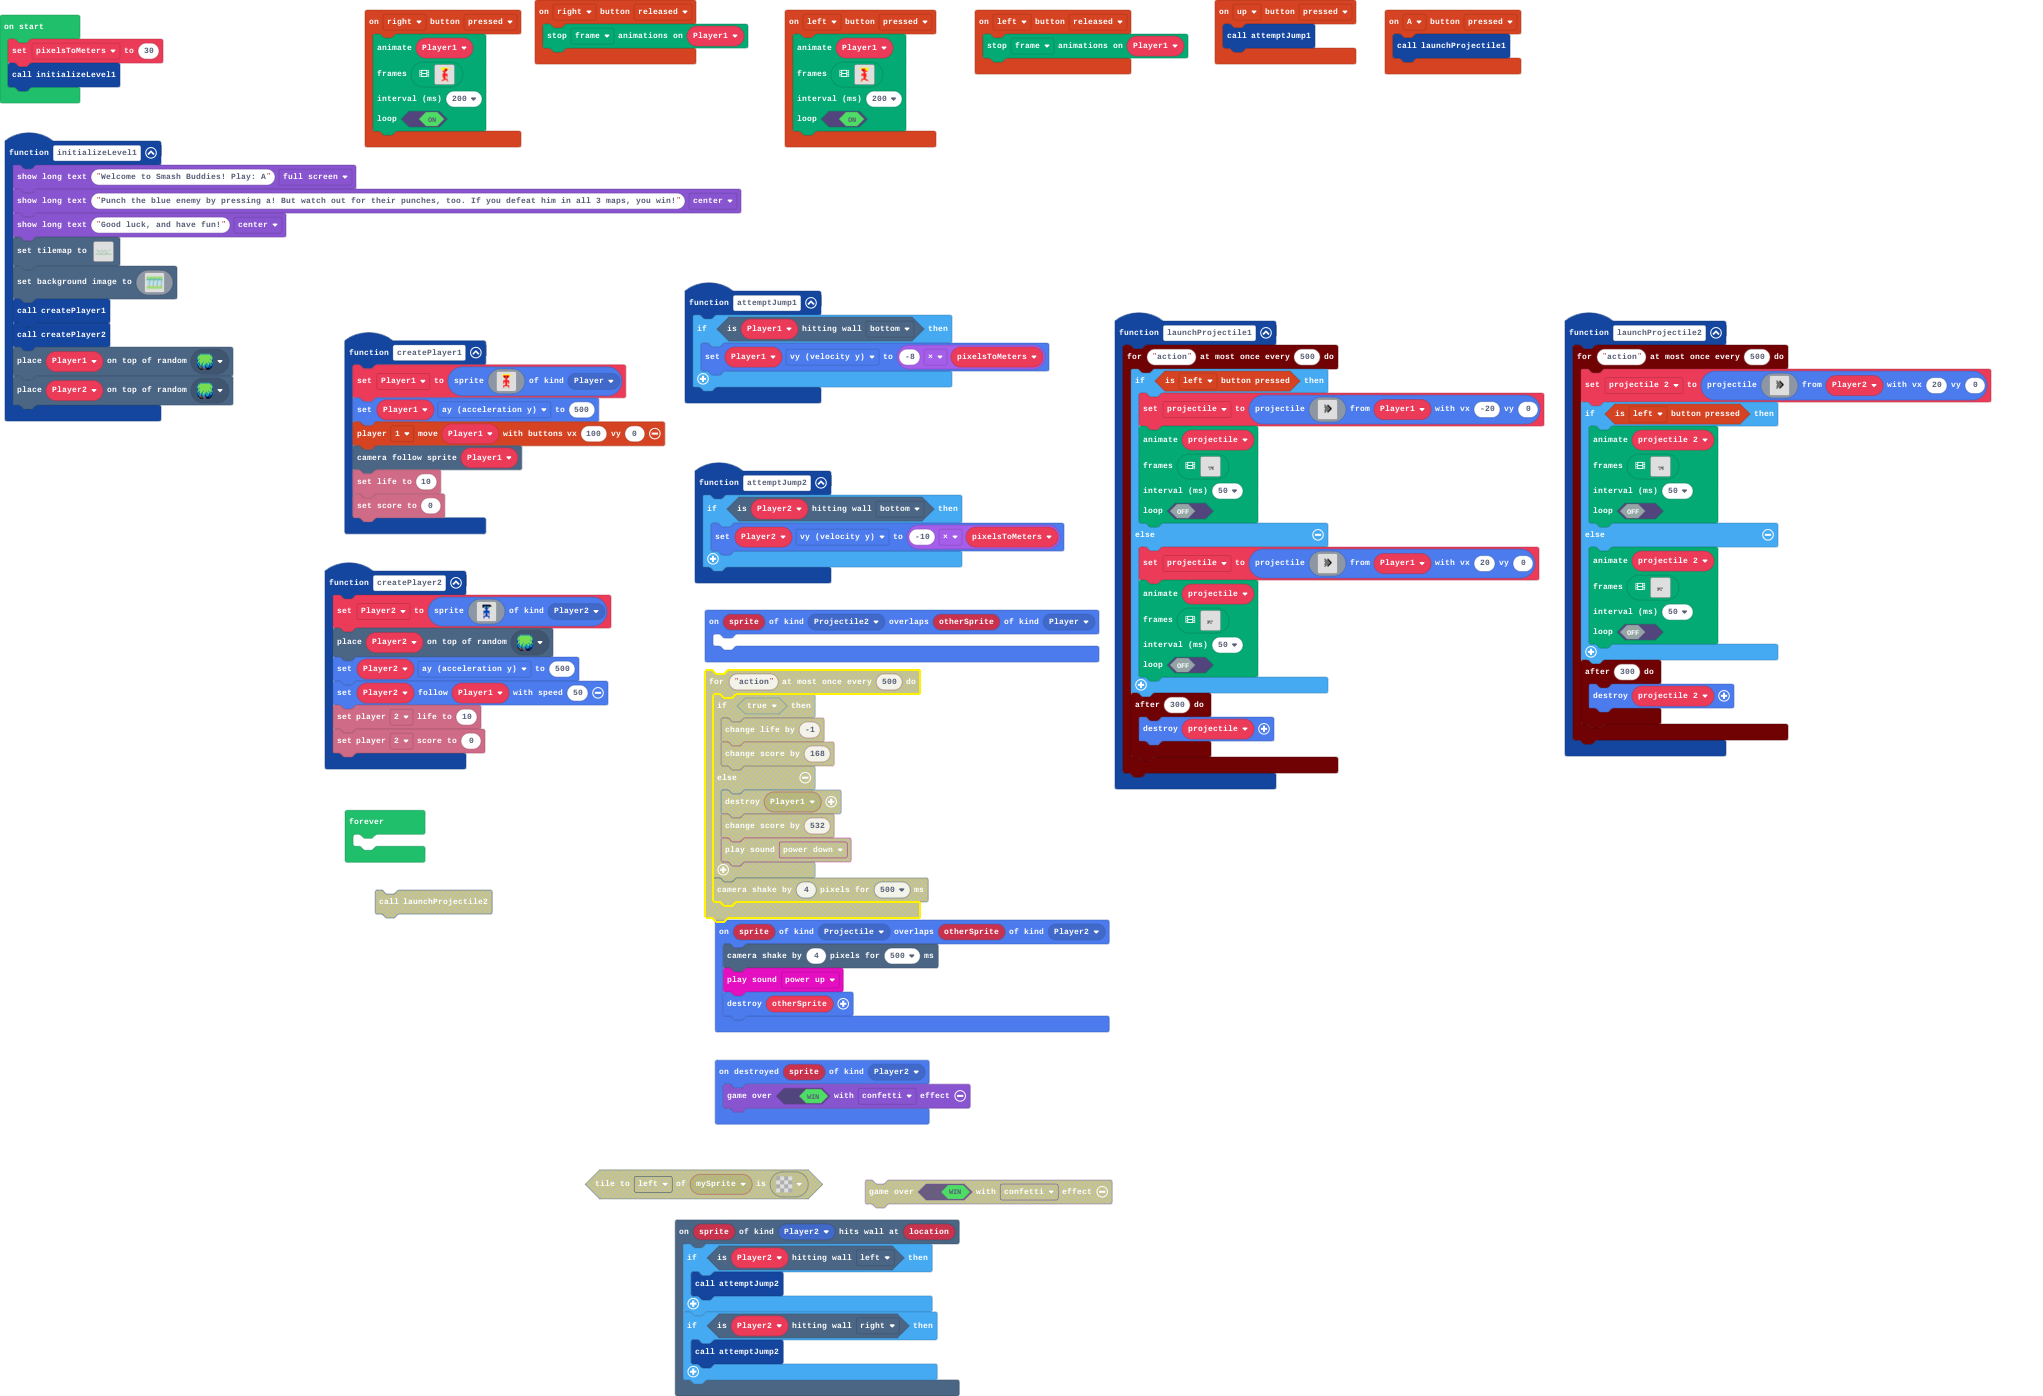
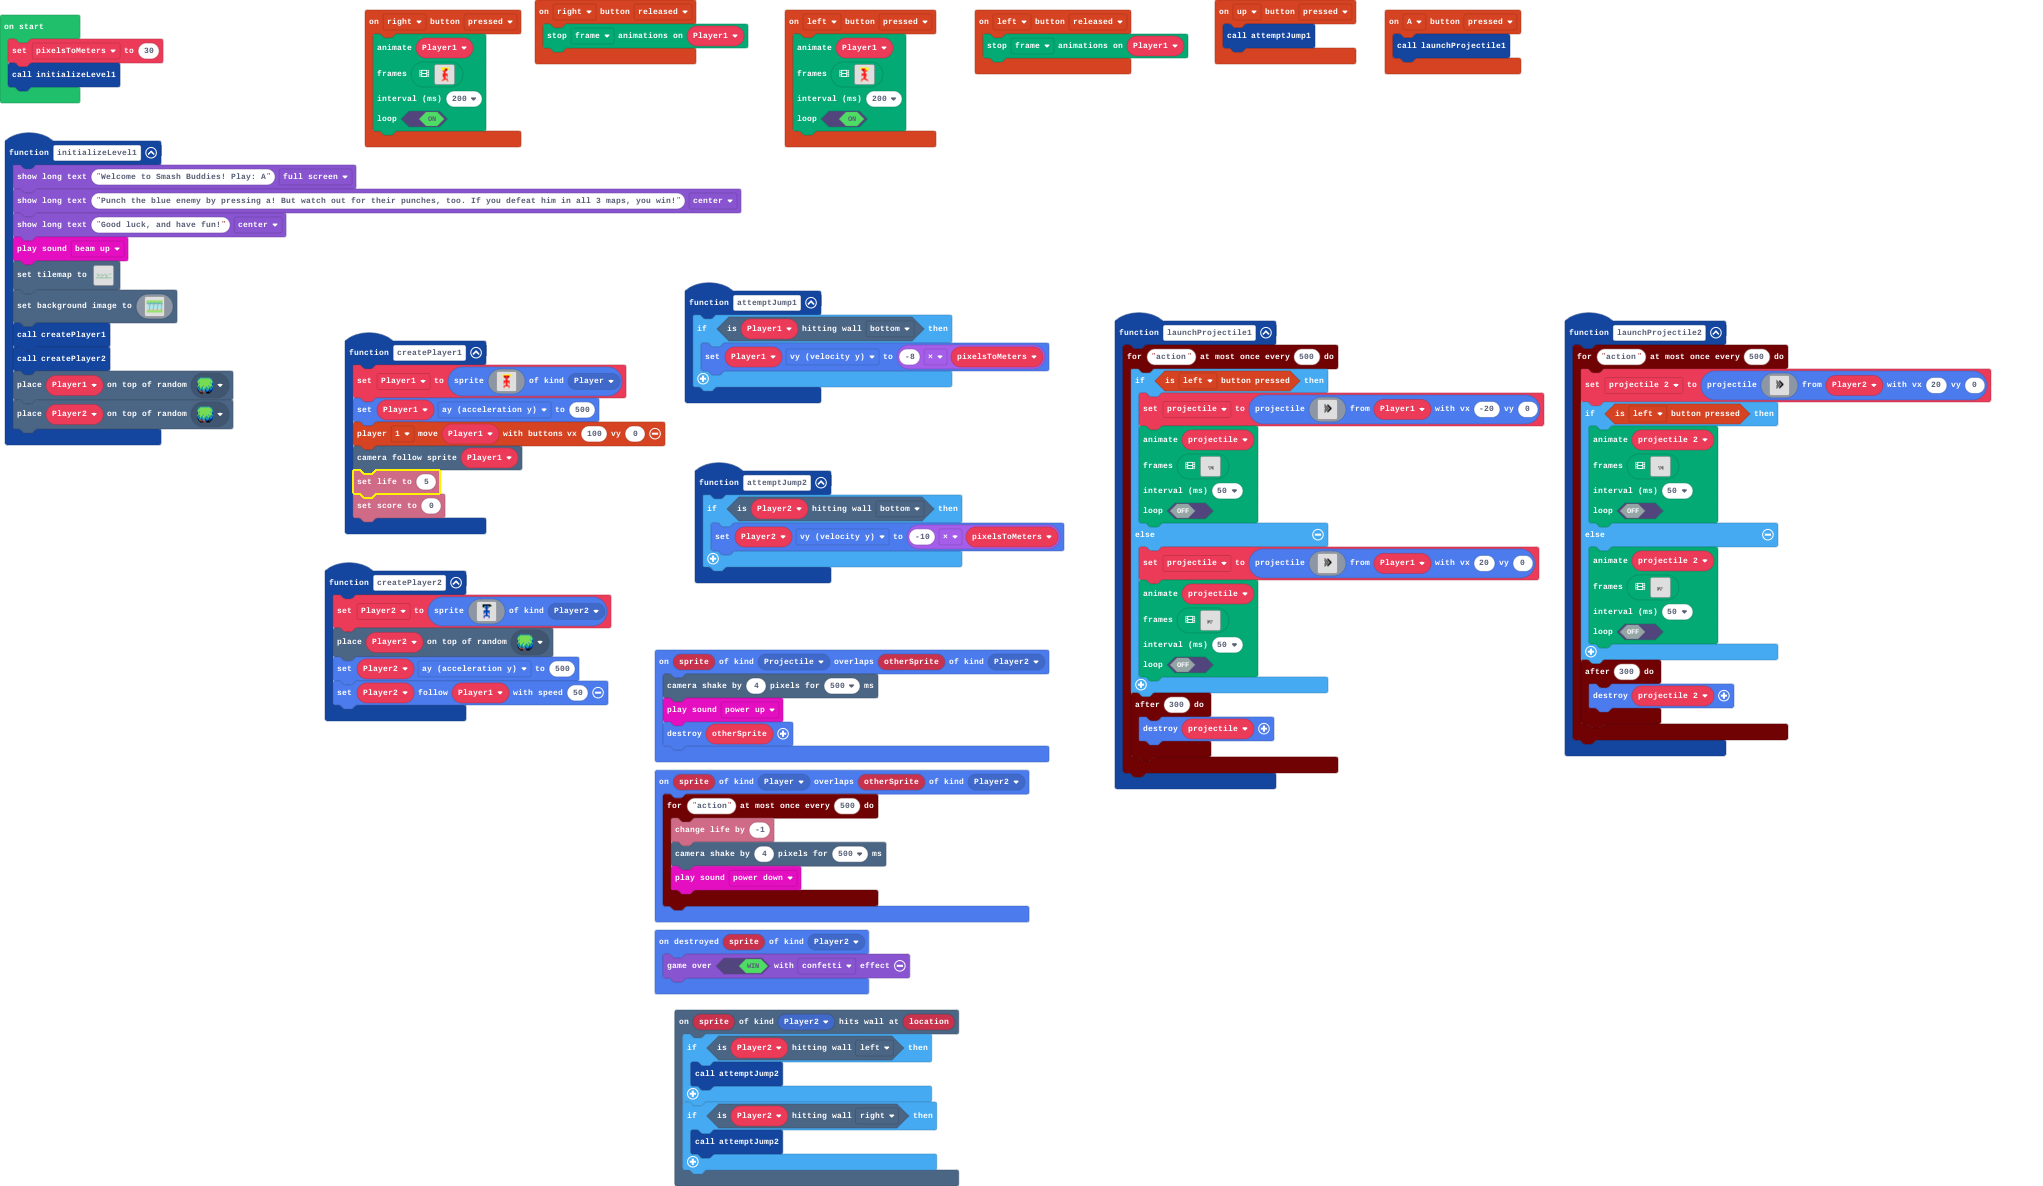
Finished Version

Changed region(s): [[0.0, 0.0, 0.9868, 0.9983]]

diff --git a/main.ts b/main.ts
@@ -26,9 +26,6 @@ function launchProjectile1 () {
         })
     })
 }
-sprites.onOverlap(SpriteKind.Projectile2, SpriteKind.Player, function (sprite, otherSprite) {
-	
-})
 controller.up.onEvent(ControllerButtonEvent.Pressed, function () {
     attemptJump1()
 })
@@ -68,6 +65,7 @@ function initializeLevel1 () {
     game.showLongText("Welcome to Smash Buddies! Play: A", DialogLayout.Full)
     game.showLongText("Punch the blue enemy by pressing a! But watch out for their punches, too. If you defeat him in all 3 maps, you win!", DialogLayout.Center)
     game.showLongText("Good luck, and have fun!", DialogLayout.Center)
+    music.beamUp.play()
     tiles.setTilemap(tilemap`Level1`)
     scene.setBackgroundImage(img`
         7777777777777777777777777777777777777777777777777777777777777777777777777777777777777777777777777777777777777777777777777777777777777777777777777777777777777777
@@ -222,6 +220,13 @@ function launchProjectile2 () {
         })
     })
 }
+sprites.onOverlap(SpriteKind.Player, SpriteKind.Player2, function (sprite, otherSprite) {
+    timer.throttle("action", 500, function () {
+        info.changeLifeBy(-1)
+        scene.cameraShake(4, 500)
+        music.powerDown.play()
+    })
+})
 controller.right.onEvent(ControllerButtonEvent.Pressed, function () {
     animation.runImageAnimation(
     Player1,
@@ -243,7 +248,7 @@ function createPlayer1 () {
     Player1.ay = 500
     controller.player1.moveSprite(Player1, 100, 0)
     scene.cameraFollowSprite(Player1)
-    info.setLife(10)
+    info.setLife(5)
     info.setScore(0)
 }
 function createPlayer2 () {
@@ -251,8 +256,6 @@ function createPlayer2 () {
     tiles.placeOnRandomTile(Player2, sprites.builtin.forestTiles0)
     Player2.ay = 500
     Player2.follow(Player1, 50)
-    info.player2.setLife(10)
-    info.player2.setScore(0)
 }
 let projectile_2: Sprite = null
 let Player2: Sprite = null
@@ -261,6 +264,3 @@ let projectile: Sprite = null
 let pixelsToMeters = 0
 pixelsToMeters = 30
 initializeLevel1()
-forever(function () {
-	
-})
